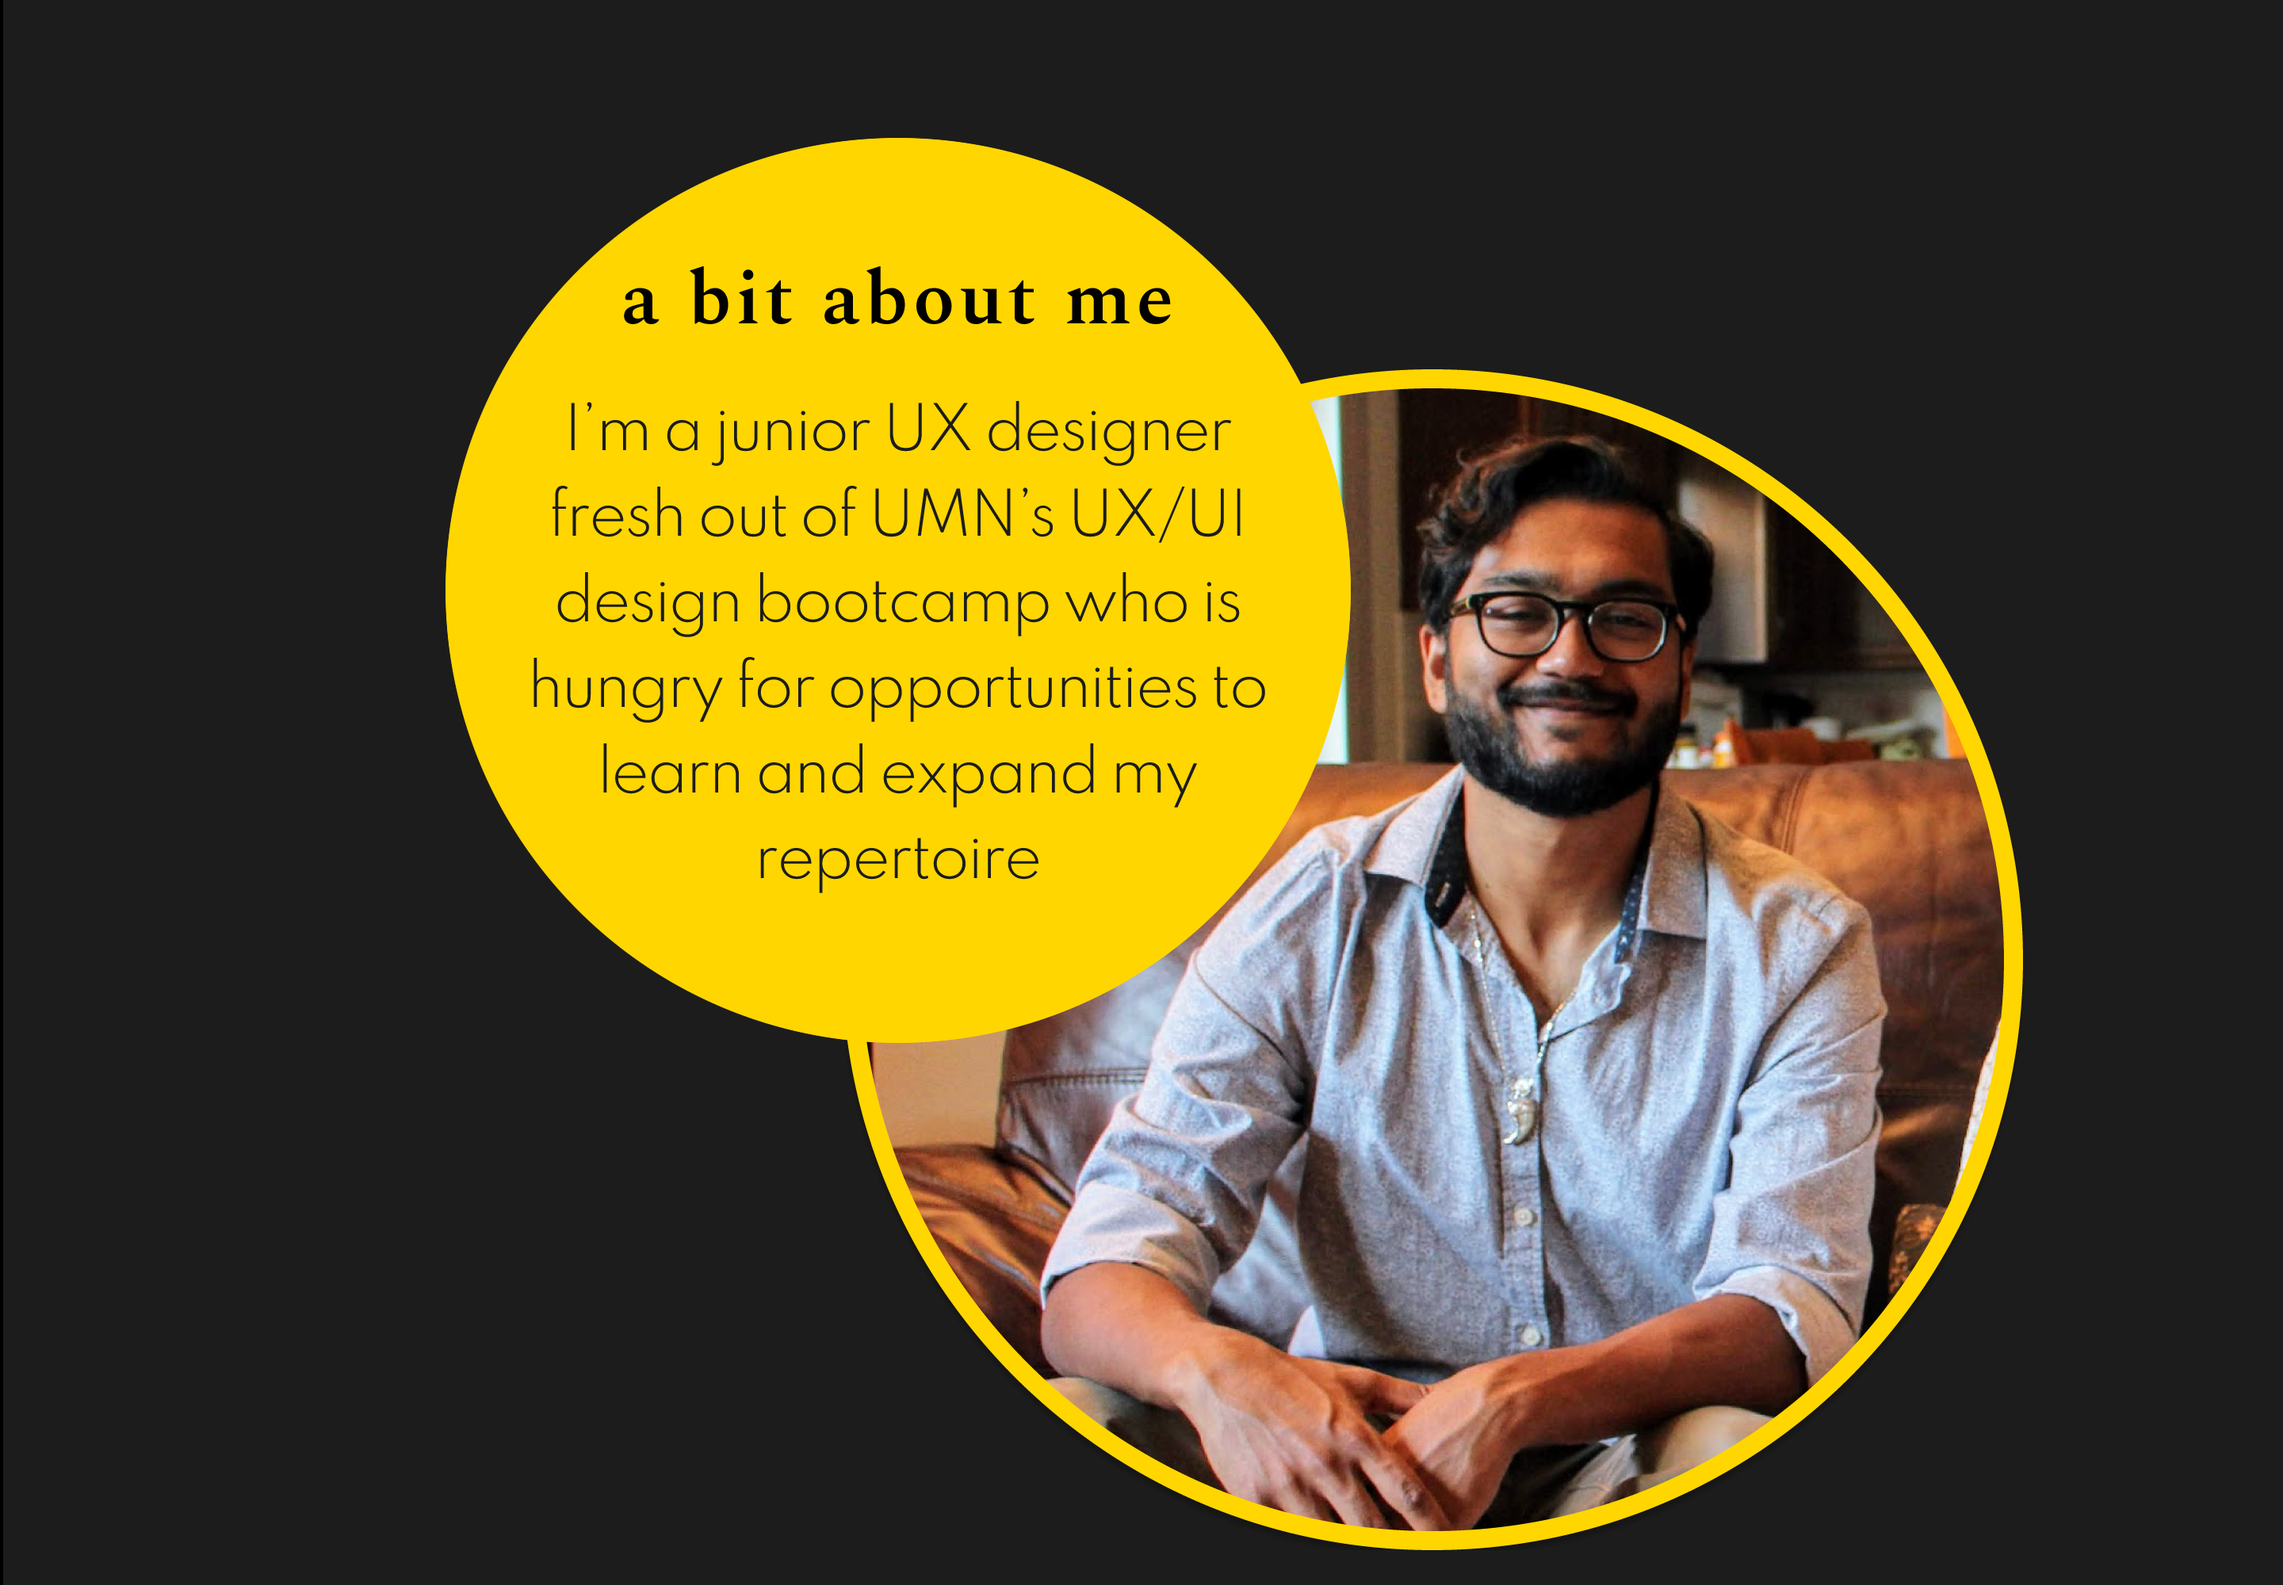
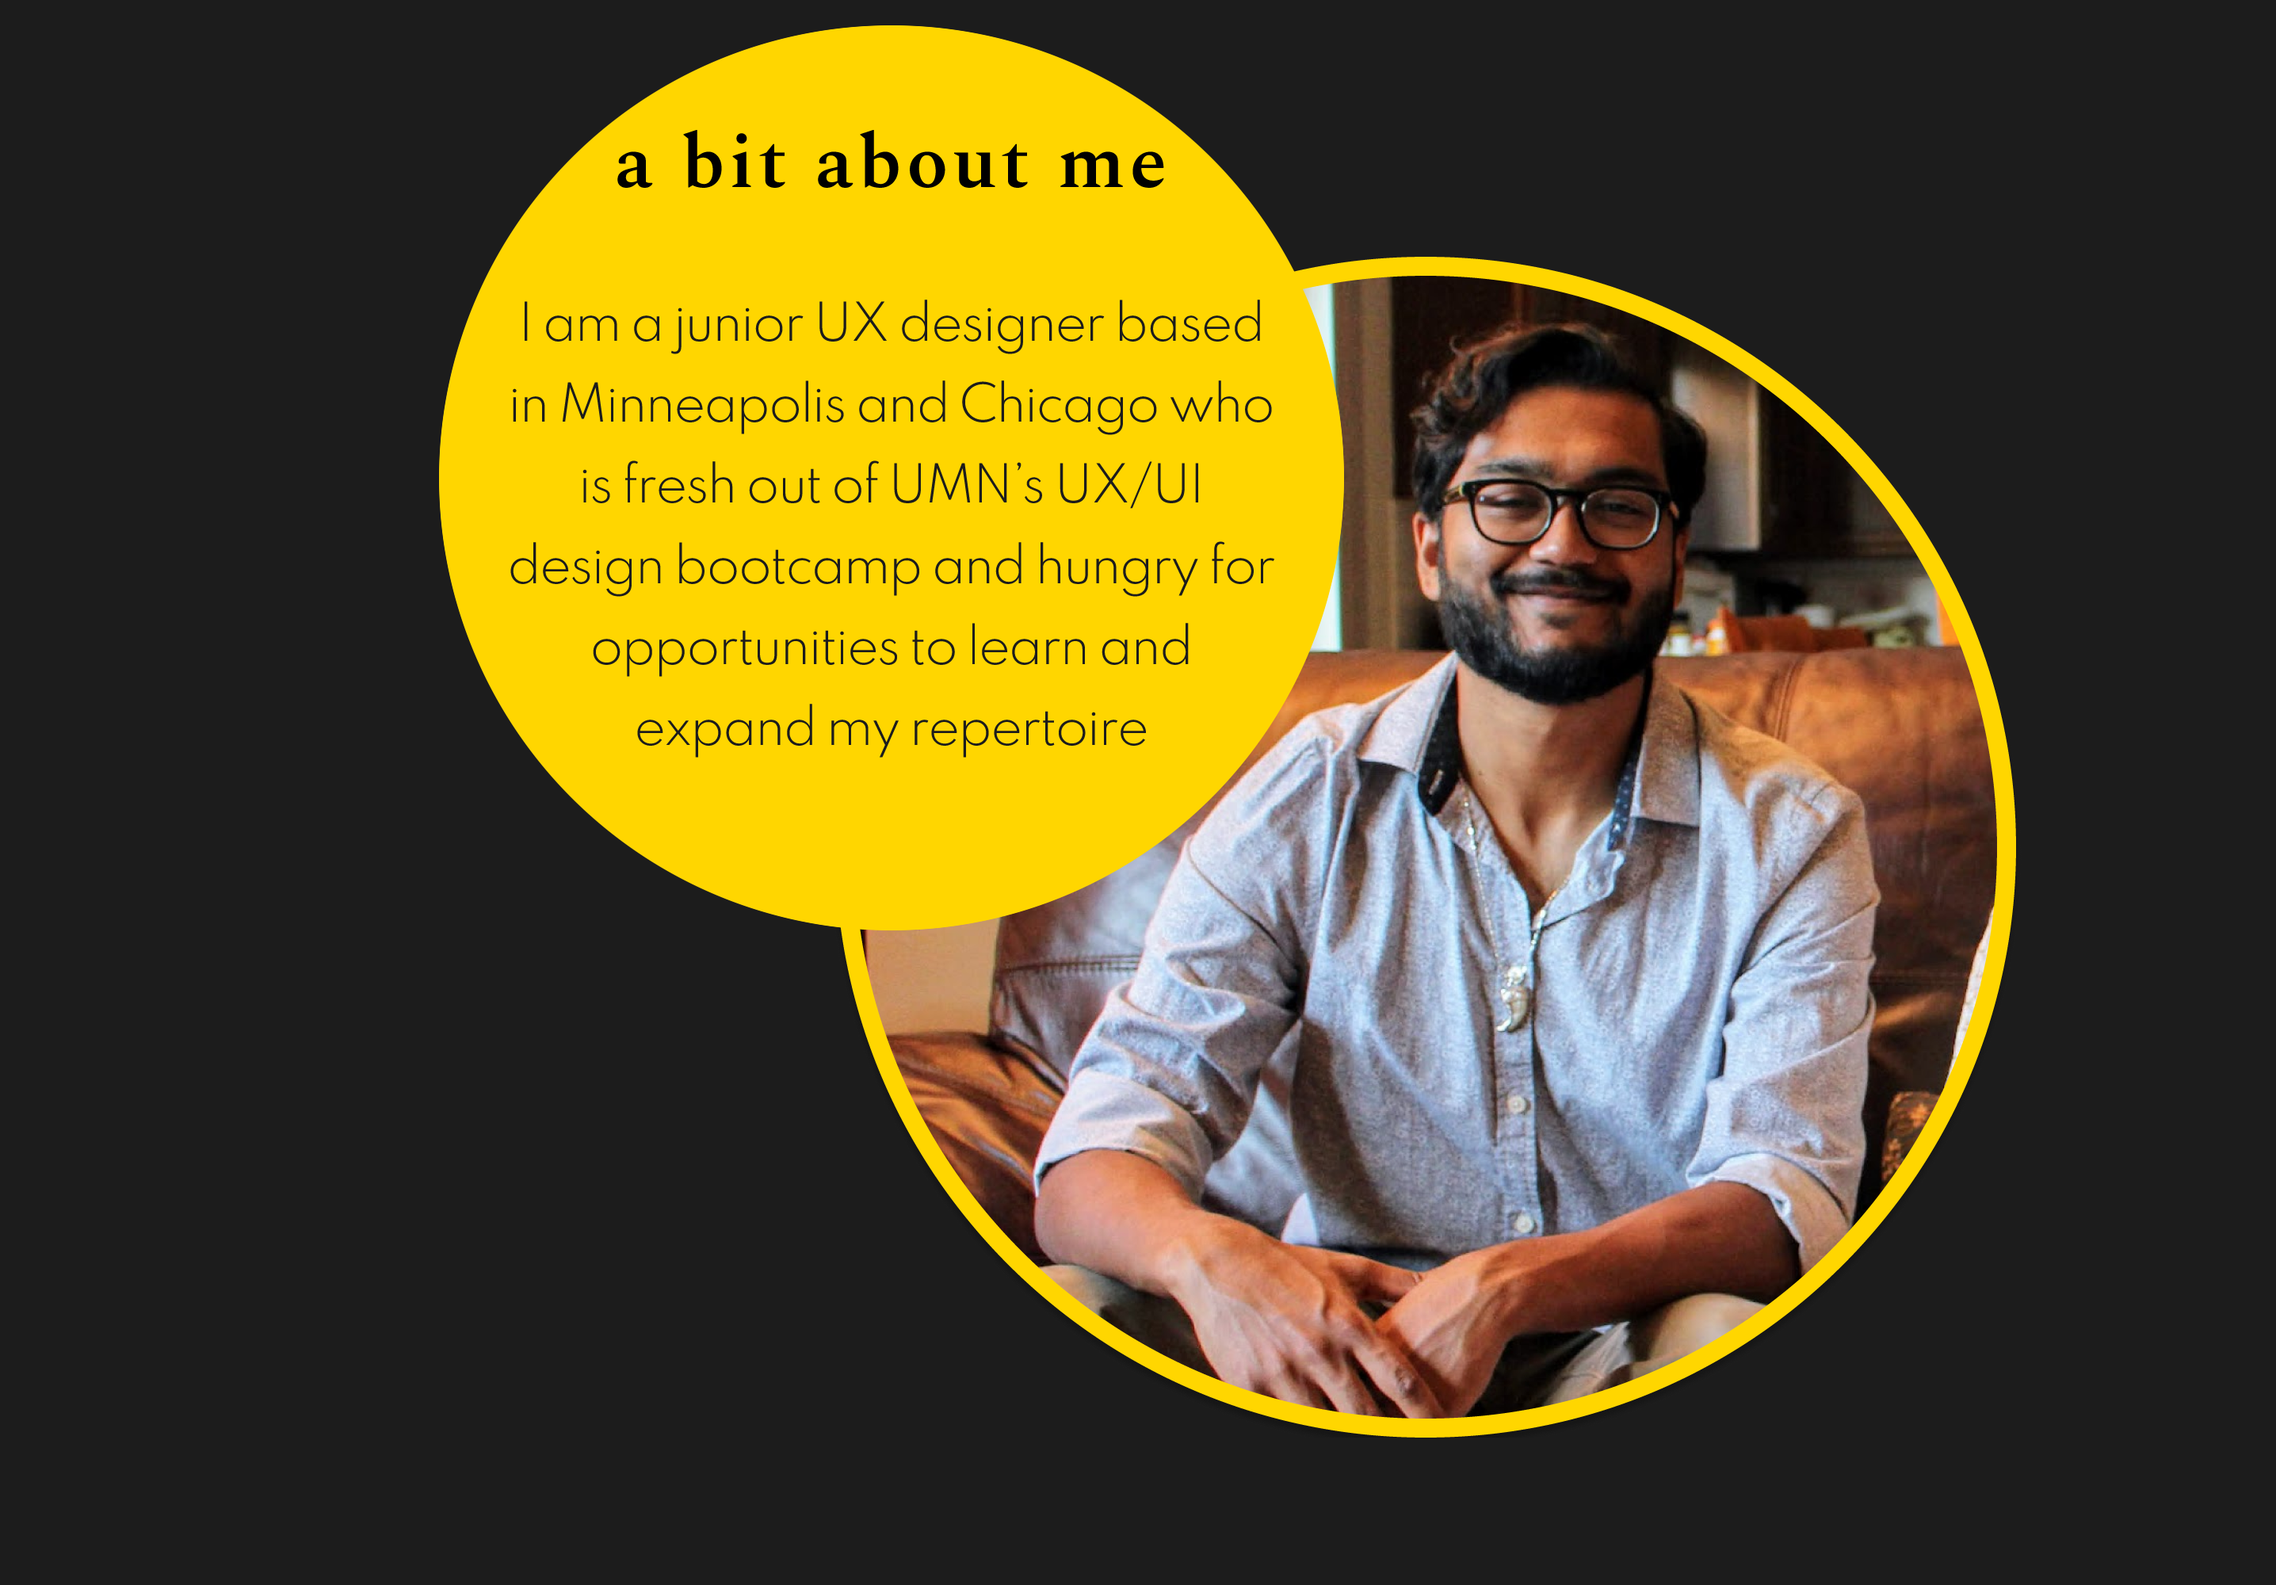
hw17

Changed region(s): [[0.1859, 0.0, 0.8987, 0.992]]

diff --git a/css/style.css b/css/style.css
@@ -5,28 +5,43 @@ p {
     font-family: "Spartan" ;
     color: white;
 }
+li {
+    font-family: Spectral;
+    color: white;
+}
 .inline-block {
     display: inline-block;
-    vertical-align: top;
+    width: 100%;
 }
 
 .logo {
-    width: 25%;
+    width: 23%;
+    padding: 1%;
     text-align: left;
-    outline: solid red 1px;
 }
-
+.navigation {
+    outline: solid green 1px;
+    box-shadow: black;
+    text-shadow: black;
+    display: flex;
+}
 nav {
-    width: 75%;
+    display: flex;
+    width: 73%;
+    padding: 1%;
     outline: solid red 1px;
 }
 ul {
     width: 50%;
-    margin-left: 900px;
+    margin-left: auto;
+    text-align: right;
+    justify-content: center;
+    padding-right: 1%;
+    outline: solid blue 1px;
 }
 
 .heroImg {
-    height: 2800px;
+    height: 5700px;
 }
 #logo1 {
     width: 200px;
@@ -34,10 +49,39 @@ ul {
 #hero {
     width: 100%;
 }
-#about {
+#aboutMe {
+    width: 100%;
+}
+#dogma {
+    width: 100%;
+}
+#skills {
     width: 100%;
 }
 footer {
     background-color: #373738;
     text-align: center;
 }
+.resume {
+    height: 100px;
+    justify-content: center;
+    display: flex;
+    padding: 50px;
+}
+button {
+    background-color: #FFD600;
+    border: black;
+    color: black;
+    position: absolute;
+    width: 205px;
+    height: 67px;
+    text-align: center;  
+    font-size: 20px; 
+    font-family: Spectral;
+    font-weight: bold;
+}
+
+@font-face {
+    font-family: Spectral;
+    src: url(Spectral-Bold.tff);
+  }

diff --git a/index.html b/index.html
@@ -30,13 +30,15 @@
 
         <section class="heroImg">
             <img src="images/heroimg.png" id="hero">
-            <img src="images/aboutme.png" id="about">
-            <p>
-                My interest in carefully crafting experiences for others started with my love of music. Creating music with my peers has shown me time and time again how the power of collaboration can lead a group of people to create amazing new things that they would never have come up with by themselves. When all cylinders were firing, after all the work and time we spent practicing, the final product always felt indescribably fulfilling, especially when others could find joy in it. In the last few years, I’ve come to realize that same sense of collaborative achievement and wondrous creation is similarly present in UX work, and is even more impactful towards everyday interactions than I ever imagined.
-            </p>
-            <button>
+            <img src="images/aboutme.png" id="aboutMe">
+            <img src="images/dogma.png" id="dogma">
+            <div class="resume">
+                <button>
                 Download Resume
-            </button>
+                </button>
+            </div>
+            <img src="images/skills.png" id="skills">
+
         </section>
 
 
